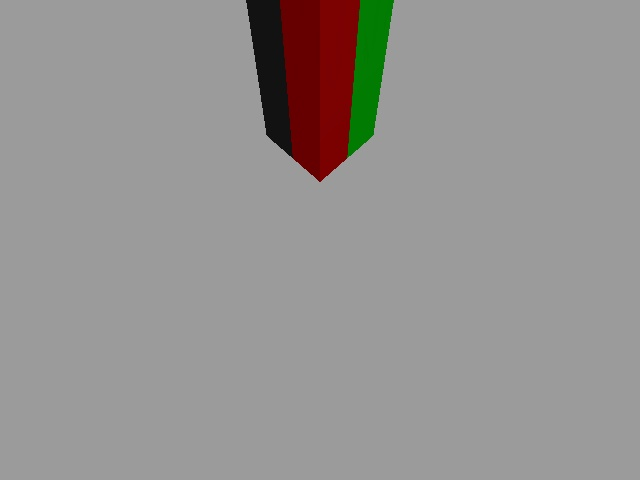
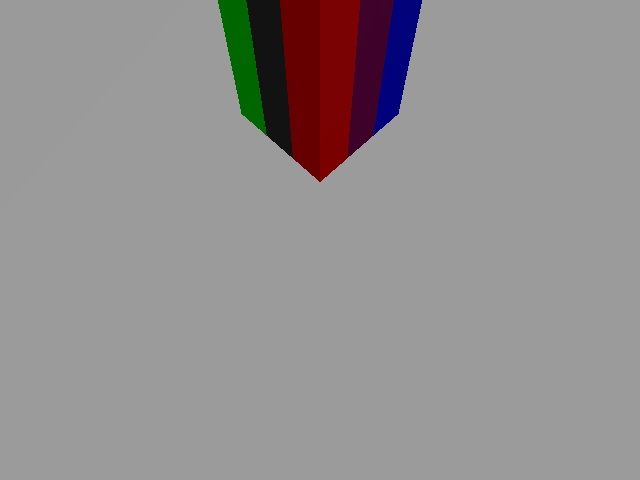
more stable structure and images/schematic of it

Changed region(s): [[0.5312, 0.0, 0.6562, 0.3438], [0.3438, 0.0, 0.4375, 0.2812]]

diff --git a/src/generate_schematic/src/generate_schematic.py b/src/generate_schematic/src/generate_schematic.py
@@ -22,7 +22,8 @@ def main():
     rospy.init_node("schematic_node", anonymous = True)
     #idea: take all points and round coordinates to nearest multiples
     raw_world_coordinates, world_coordinates = get_world_coordinates()
-
+    world_coordinates = np.array([c for c in world_coordinates if c[2] >= 0])
+    print(world_coordinates)
     before_apply_square_world_coordinates = world_coordinates.copy()[world_coordinates[:, 2] >= 0]
 
     #go downward layer by layer, and at each layer remove non-squares and project points to lower layers
@@ -32,6 +33,7 @@ def main():
     layers = gutils.get_layers(world_coordinates)
     filtered_layers = []
     for i in reversed(range(len(layers))):
+        print("i", i)
         cur_layer = apply_square_filter(layers[i])
         if len(cur_layer) != 0:
             filtered_layers.append(cur_layer)
@@ -83,7 +85,7 @@ def get_world_coordinates():
             raw_world_coordinates.append(raw_pair_coordinates)
     world_coordinates = np.vstack(world_coordinates)
     raw_world_coordinates = np.vstack(raw_world_coordinates)
-    
+
     #remove duplicates
     world_coordinates = gutils.unique_rows(world_coordinates)
 

diff --git a/src/global_constants/src/global_constants/constants.py b/src/global_constants/src/global_constants/constants.py
@@ -30,9 +30,9 @@ for delta in deltas:
         CAMERA_DATA.append([(x + delta[0] + .01, y + delta[1] + .01, z), (0 , 1.15, delta[2])])
 
 STRUCTURE_TO_BUILD = [  # Passed into WorldSimulation.add_square_2d
-    [x, y, 2, 0],
+    [x, y, 3, 0],
     [x, y, 2, 1],
-    [x, y, 1, 2],
+    # [x, y, 1, 2],
 ]
 
 EXPLORATION_BLOCKS = [
